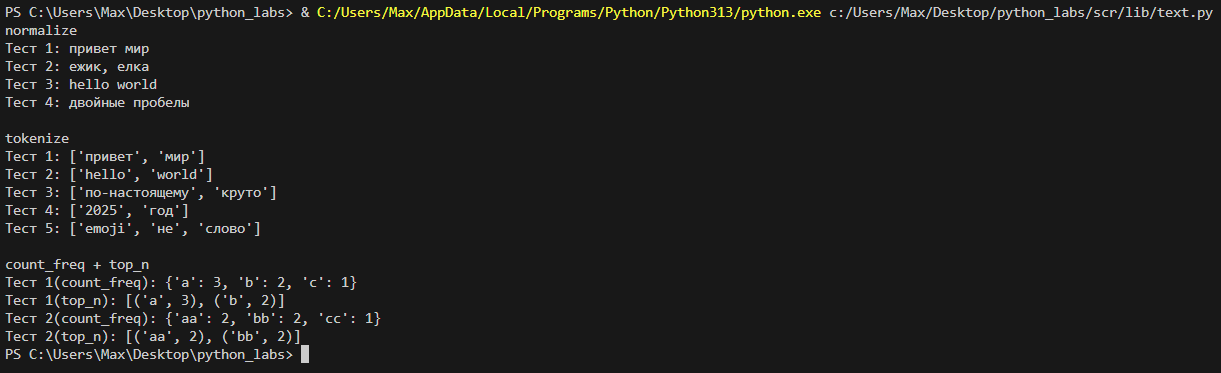
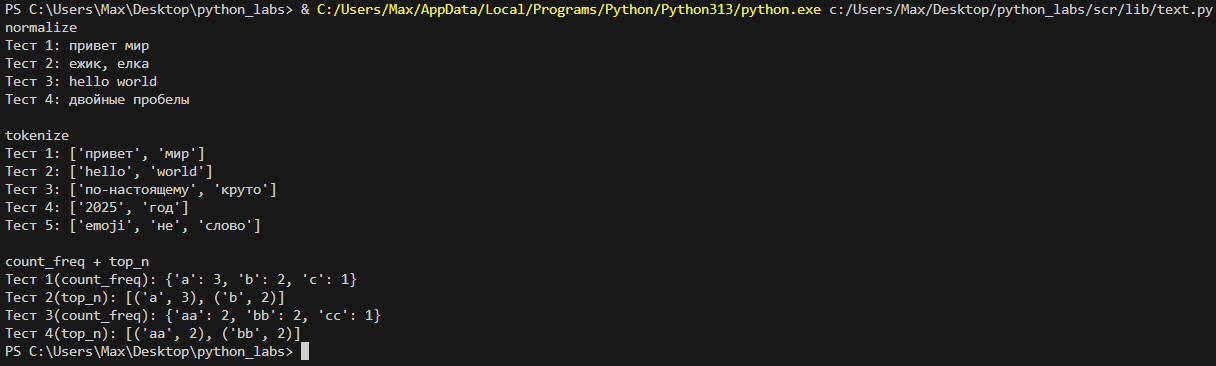
M

Changed region(s): [[0.0, 0.0, 1.0, 0.3005], [0.0, 0.6913, 0.3125, 0.9918], [0.0, 0.3607, 0.25, 0.6311]]

diff --git a/scr/lab03/README.md b/scr/lab03/README.md
@@ -9,6 +9,19 @@
 
 ```python
 def normalize(text: str, *, casefold: bool = True, yo2e: bool = True) -> str:
+    """
+    Нормализует текст путем удаления специальных символов и приведения к единому формату.
+    
+    Функция выполняет следующие преобразования:
+    - Удаляет символы табуляции (\t) и переноса строки (\n)
+    - Убирает лишние пробелы (в начале, конце и множественные внутри строки)
+    - При необходимости приводит текст к нижнему регистру с использованием casefold()
+    - Заменяет букву 'ё' на 'е' (опционально)
+
+    Examples:
+        normalize("ПрИвЕт\nМИр\t") == "привет мир"
+        normalize("ёжик, Ёлка") == "ежик, елка"
+    """
 
     if not isinstance(text, str):
         raise ValueError("normalize: text не str")
@@ -35,6 +48,15 @@ def normalize(text: str, *, casefold: bool = True, yo2e: bool = True) -> str:
 
 ```python
 def tokenize(text: str) -> list[str]:
+    """
+    Функция разделяет входную строку на части, используя в качестве разделителей
+    любые символы, которые не являются буквами или цифрами.
+
+    Examples:
+        tokenize("привет, мир!") == ["привет", "мир"]
+        tokenize("по-настоящему круто") == ["по-настоящему", "круто"]
+        tokenize("2025 год") == ["2025", "год"]
+    """
     import re
 
     if not isinstance(text, str):
@@ -54,7 +76,13 @@ def tokenize(text: str) -> list[str]:
 
 ```python
 def count_freq(tokens: list[str]) -> dict[str, int]:
+    """
+    Подсчитывает частоту встречаемости слов в списке токенов.
 
+    Examples:
+        count_freq(["a","b","a","c","b","a"]) == {"a":3, "b":2, "c":1}
+        count_freq(["bb","aa","bb","aa","cc"]) == {"aa":2, "bb":2, "cc":1}
+    """
     from collections import Counter
 
     if not isinstance(tokens, list):
@@ -69,8 +97,16 @@ def count_freq(tokens: list[str]) -> dict[str, int]:
 ### 4. top_n(freq, n)
 - Возвращает N самых частых слов
 - Сортировка по убыванию частоты, при равенстве - по алфавиту
+
 ```python
 def top_n(freq: dict[str, int], n: int = 5) -> list[tuple[str, int]]:
+    """
+    Возвращает топ-N самых частых слов с сортировкой по убыванию частоты.
+
+    Examples:
+        top_n({"a":3, "b":2, "c":1}, 2) == [("a",3), ("b",2)]
+        top_n({"aa":2, "bb":2, "cc":1}, 2) == [("aa",2), ("bb",2)]
+    """
 
     if not isinstance(freq, dict):
         raise ValueError("top_n: freq не  dict")
@@ -84,7 +120,117 @@ def top_n(freq: dict[str, int], n: int = 5) -> list[tuple[str, int]]:
 ## Тест-кейсы
 
 ### in
-![Задание B★](./images/lab03/img02.png)
+```python
+try:
+    print("normalize")
+    print("Тест 1:", normalize("ПрИвЕт\nМИр\t"))
+    print("Тест 2:", normalize("ёжик, Ёлка", yo2e=True))
+    print("Тест 3:", normalize("Hello\r\nWorld"))
+    print("Тест 4:", normalize("  двойные   пробелы  "))
+
+    print("\ntokenize")
+    print("Тест 1:", tokenize("привет мир"))
+    print("Тест 2:", tokenize("hello,world!!!"))
+    print("Тест 3:", tokenize("по-настоящему круто"))
+    print("Тест 4:", tokenize("2025 год"))
+    print("Тест 5:", tokenize("emoji 😀 не слово"))
+
+    print("\ncount_freq + top_n")
+    print("Тест 1(count_freq):", count_freq(["a","b","a","c","b","a"]))
+    print("Тест 2(top_n):", top_n(count_freq(["a","b","a","c","b","a"]), n=2))
+    print("Тест 3(count_freq):", count_freq(["bb","aa","bb","aa","cc"]))
+    print("Тест 4(top_n):", top_n(count_freq(["bb","aa","bb","aa","cc"]), n=2))
+except ValueError as e:
+    print(f"Ошибка: {e}")
+```
 
 ### out
-![Задание B★](./images/lab03/img02.png)
+![Задание B★](../../images/lab03/img01.png)
+
+## Задание B★ - Интерактивная программа
+
+### Описание
+Создана интерактивная программа для анализа текста, которая:
+- Принимает текст от пользователя
+- Нормализует его с помощью функции `normalize()`
+- Разбивает на токены с помощью `tokenize()`
+- Подсчитывает частоту слов через `count_freq()`
+- Выводит топ-5 самых частых слов в виде красивой таблицы
+
+### Код программы
+```python
+import sys
+import os
+sys.path.append(os.path.join(os.path.dirname(__file__), '..'))
+
+from lib.text import *
+
+def print_table(words_data: list[tuple[str, int]]) -> None:
+    """
+    Выводит форматированную таблицу слов и их частот в отсортированном виде.
+    
+    Функция принимает список кортежей (слово, частота) и выводит их в виде
+    читаемой таблицы с выравниванием колонок. Ширина первой колонки автоматически
+    подстраивается под самое длинное слово в данных или заголовке.
+    """
+    if not words_data:
+        raise ValueError("print_table: words_data пуст")
+    
+    max_word_length = max(len(word) for word, count in words_data)
+
+    if len("слово") > max_word_length:
+        max_word_length = len("слово")
+    
+    print(f"{'слово':<{max_word_length}} | частота")
+    print("-" * max_word_length + "-|-" + "-" * 7)
+    
+    for word, count in words_data:
+        print(f"{word:<{max_word_length}} | {count}")
+
+try:
+    inpt_text = input("Введите текст: ")
+    normalize_text = normalize(inpt_text)
+    tokens = tokenize(normalize_text)
+    freq = count_freq(tokens)
+    top_words = top_n(freq, 5)
+
+    print(f"Всего слов: {len(tokens)}")
+    print(f"Уникальных слов: {len(freq)}")
+
+    print("Топ-5:")
+    print_table(top_words)
+
+except ValueError as e:
+    print(f"Ошибка: {e}")
+```
+
+### Пример работы программы
+![Задание B★ - Результат](../../images/lab03/img02.png)
+
+## Анализ и выводы
+
+### Что было реализовано:
+1. **Функция `normalize()`** - успешно нормализует текст, убирая лишние символы и приводя к единому формату
+2. **Функция `tokenize()`** - корректно разбивает текст на слова, сохраняя слова с дефисами
+3. **Функция `count_freq()`** - точно подсчитывает частоту слов и сортирует по убыванию
+4. **Функция `top_n()`** - возвращает нужное количество самых частых слов
+5. **Интерактивная программа** - создает удобный интерфейс для анализа текста
+
+### Особенности реализации:
+- Все функции имеют проверку входных данных и выдают понятные ошибки
+- Используется `casefold()` для корректного приведения к нижнему регистру
+- Регулярные выражения для токенизации текста: `r"[^\w-]+"`
+  - `r` - raw string (сырая строка), отключает обработку escape-последовательностей (`\n`,`\t` и другие)
+  - `[^\w-]` - символы, которые НЕ являются буквами, цифрами, подчеркиванием или дефисом
+  - `+` - один или более таких символов подряд
+- Динамический импорт модулей: `sys.path.append(os.path.join(os.path.dirname(__file__), '..'))`
+  - `sys.path.append()` - добавляет путь к списку путей для поиска модулей
+  - `os.path.dirname(__file__)` - получает папку текущего файла
+  - `os.path.join(..., '..')` - поднимается на уровень выше для доступа к папке `lib`
+  - Позволяет импортировать функции из `lib.text` модуля
+- Автоматическое форматирование таблицы результатов
+- Обработка исключений в интерактивной программе
+
+### Тестирование:
+- Все функции протестированы на различных входных данных
+- Проверена работа с пустыми строками и некорректными типами данных
